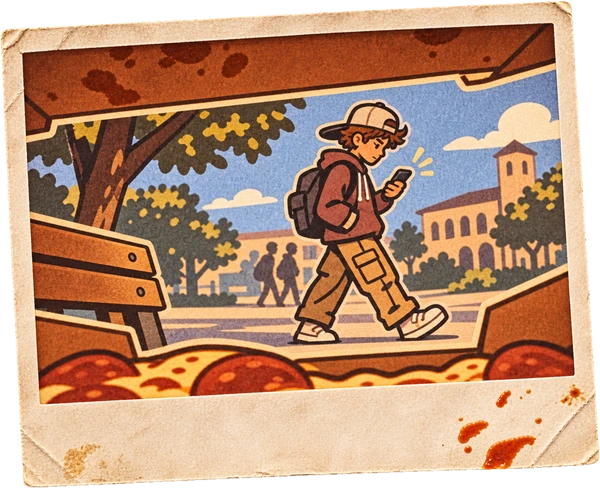
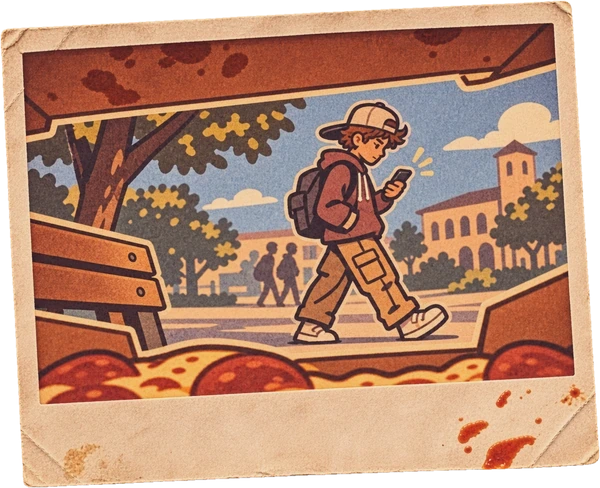
Teen and turtle Polaroids toned to the ninja and mutant photos; all four about one size

diff --git a/js/hq.js b/js/hq.js
@@ -247,7 +247,7 @@
   const paintedReady = () => BOARD_ART.every(n => { const i = pic(`board/${n}`); return i.complete && i.naturalWidth; });
   // Suspects: [type, centre x, centre y, width, tilt]. Teens and turtles are his from the start; ninjas and mutants go up after the
   // level that reveals them (once met: headquarters().known).
-  const SUSPECTS = [['teen', 450, 205, 210, -4], ['turtle', 462, 378, 210, 3], ['ninja', 668, 200, 180, 3], ['mutant', 672, 360, 180, -3]];
+  const SUSPECTS = [['teen', 445, 205, 196, -4], ['turtle', 455, 372, 196, 3], ['ninja', 668, 200, 214, 3], ['mutant', 672, 365, 214, -3]];
   // A cut-out pinned on the cork. Returns where its pin goes.
   function stuck(ctx, img, cx, cy, w, tilt) {
     const h = w * img.naturalHeight / img.naturalWidth, r = tilt * Math.PI / 180;
@@ -267,7 +267,7 @@
     const n = Math.min(hq.receipts + 3, 18);
     for (let i = 0; i < n; i++) {
       const col = i % 6, row = Math.floor(i / 6);
-      const at = stuck(ctx, art(`order-${1 + (i % 2)}`), 806 + col * 72 + (rnd() - 0.5) * 22, 168 + row * 92 + (rnd() - 0.5) * 18, 88, (rnd() - 0.5) * 16);
+      const at = stuck(ctx, art(`order-${1 + (i % 2)}`), 832 + col * 70 + (rnd() - 0.5) * 22, 168 + row * 92 + (rnd() - 0.5) * 18, 88, (rnd() - 0.5) * 16);
       if (i % 3 === 0) pins.push(at);
     }
     for (const [type, cx, cy, w, tilt] of SUSPECTS) {

diff --git a/art/cutscenes/board/build.py b/art/cutscenes/board/build.py
@@ -41,6 +41,28 @@ def cut(name, size):
     print(name, pic.size)
 
 
+# Teen and turtle were lit brighter and cooler than ninja and mutant: shift them onto the pair's colour statistics (per channel mean and
+# spread over the opaque pixels), most of the way, so all four read as one batch of photos.
+MATCH = {"polaroid-teen": ["polaroid-ninja", "polaroid-mutant"], "polaroid-turtle": ["polaroid-ninja", "polaroid-mutant"]}
+STRENGTH = 0.8
+
+
+def stats(names):
+    px = np.concatenate([(lambda a: a[a[..., 3] > 200][:, :3])(np.asarray(Image.open(OUT / f"{n}.webp").convert("RGBA")).astype(float))
+                         for n in names])
+    return px.mean(0), px.std(0)
+
+
+def tone(name, refs):
+    im = np.asarray(Image.open(OUT / f"{name}.webp").convert("RGBA")).astype(float)
+    m, sd = stats([name])
+    rm, rsd = stats(refs)
+    moved = (im[..., :3] - m) / sd * rsd + rm
+    im[..., :3] = np.clip(im[..., :3] + STRENGTH * (moved - im[..., :3]), 0, 255)
+    Image.fromarray(im.astype(np.uint8), "RGBA").save(OUT / f"{name}.webp", quality=92, method=6)
+    print(name, "toned to", ", ".join(refs))
+
+
 def room():
     im = Image.open(HERE / "room.png").convert("RGB")
     im = im.resize((ROOM_W, round(im.height * ROOM_W / im.width)), Image.LANCZOS)
@@ -65,3 +87,5 @@ if __name__ == "__main__":
     room()
     for k, v in CUTS.items():
         cut(k, v)
+    for k, refs in MATCH.items():
+        tone(k, refs)
